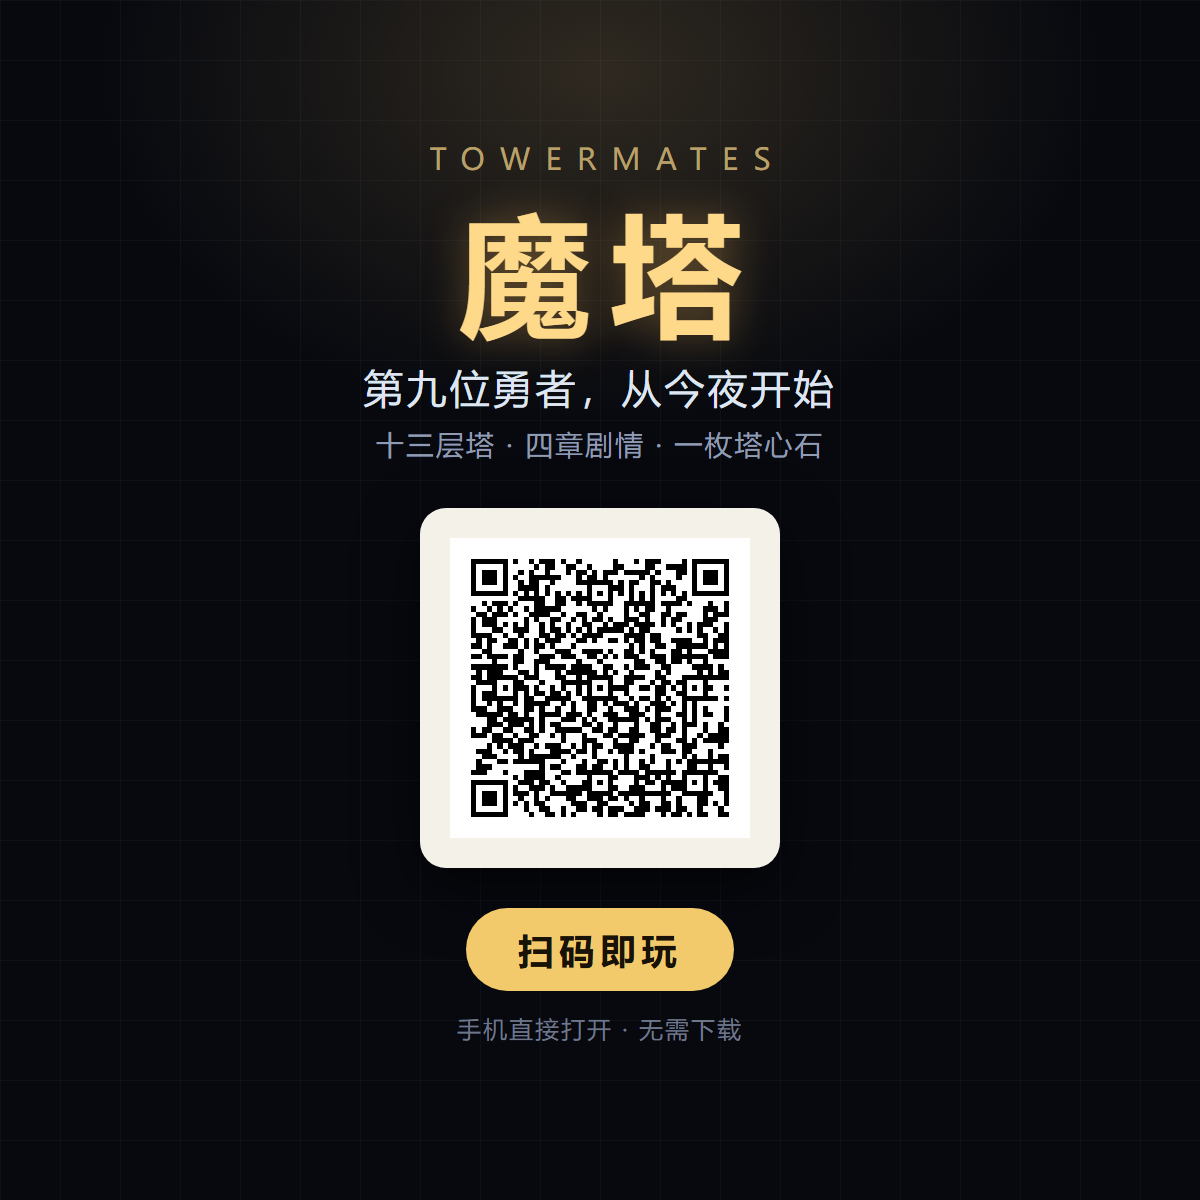
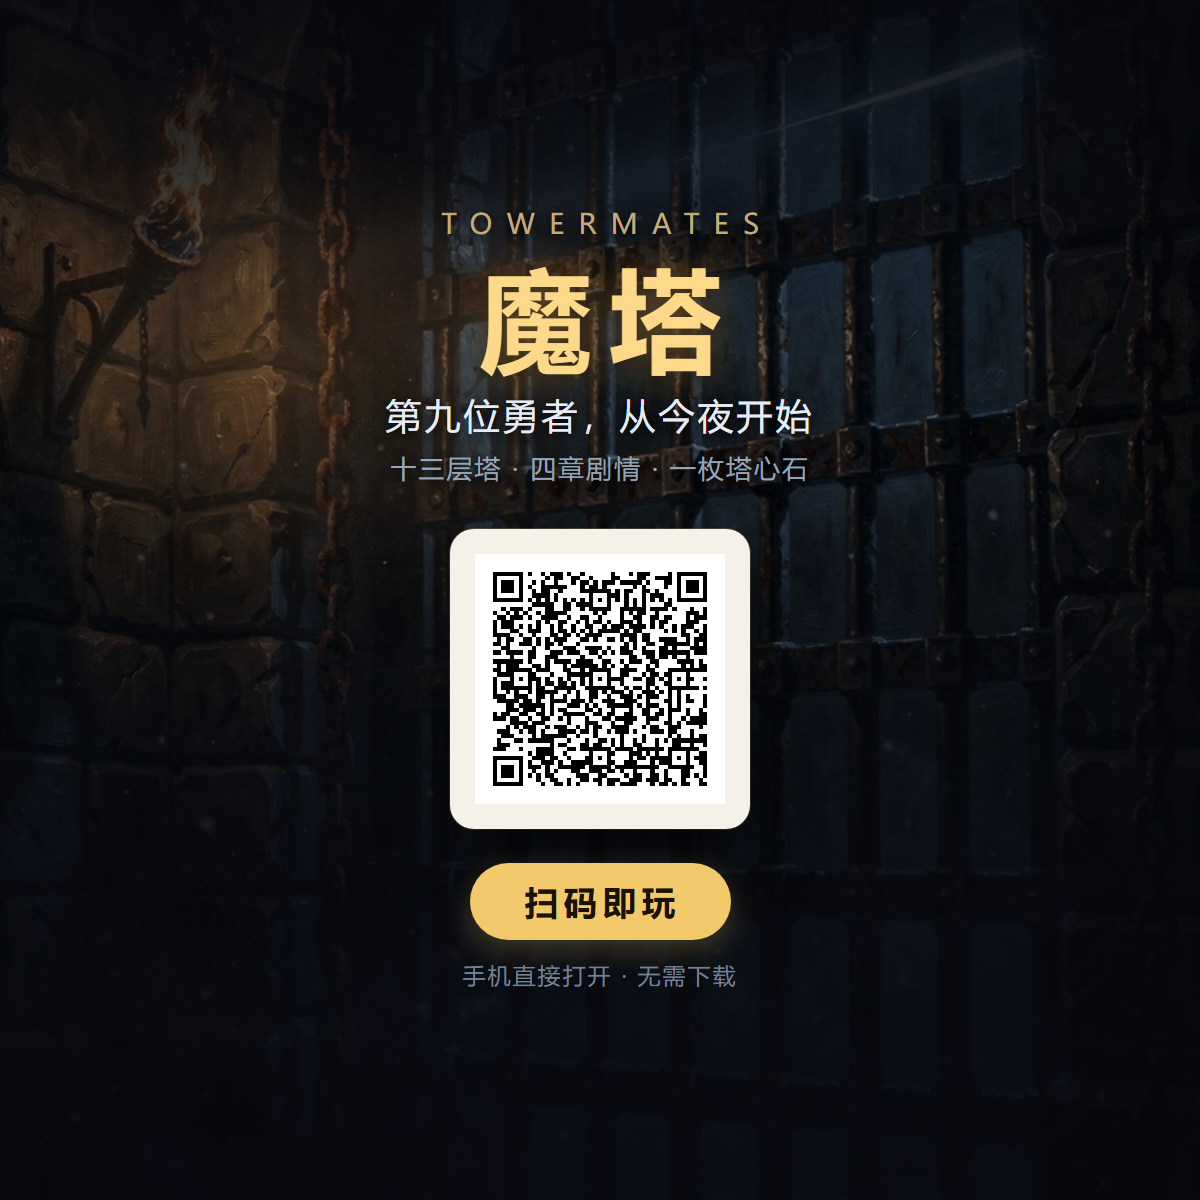
feat(social): 分享卡换成塔门 CG + og:image 版本串 + 5 条永久闸门；首局立誓页去掉五遍重复句
- assets/share-card.png 由 tools/sharecard.html 重出（底图 assets/cg/gate.webp，火把/铁栅/门缝光），
  原来那张是 11-17 的纯黑底纯文字卡——整批美术换 CG 后它仍是旧脸，而它是分享链上唯一首触点。
- og:image 补 &v=1126：换卡不换地址，微信/浏览器会继续用缓存里的旧卡。
- code-test 新增 5 条：og:image 存在/setCode/带版本串 + 卡文件在 + 1200x1200 + 非空图。
- 首局立誓页五张锁卡各写「走完一局后可解锁」（同一句×5，顶行已说过）→ 首局只留价目；第二局起不变。
- publish 重新 sync（build 90afb7b86d，assetV 339e0112 未变）。

diff --git a/tools/sharecard.html b/tools/sharecard.html
@@ -8,8 +8,12 @@
   用法：chrome --headless=new --screenshot=assets/share-card.png --window-size=1200,1200
         --force-device-scale-factor=1 tools/sharecard.html
   依赖：tools/sharecard-qr.png（由根目录「towermates-二维码.png」临时复制，生成后即可删）。
-  为什么自己做一张而不是直接拿「扫码即玩-分享图.png」：那张是 3:4 竖图，
-  按 1:1 居中裁会切掉标题上半（魔塔二字），且底部 CTA 全丢。
+
+  2026-11-26：改版——底图换成 assets/cg/gate.webp（第一期 CG 的塔门，火把 + 铁栅 + 一束光），
+  原版是纯黑底 + 纯文字，等于「分享出去的卡片和进去看到的不是同一个游戏」。
+  这条链上只有一个「首触点」，卡上必须有游戏画面，否则没人知道点开是什么。
+  版式只动两处：①底图 + 上下压暗（中段留一条看得见铁栅的亮带）；②二维码从 360 收到 300，
+  给标题留高度。字、价、CTA 一个字没改——改的是「这张卡长什么样」，不是「这张卡说什么」。
 -->
 <style>
   * { margin: 0; padding: 0; box-sizing: border-box; }
@@ -18,88 +22,108 @@
     background: #07090f;
     font-family: "Microsoft YaHei", "PingFang SC", "Noto Sans CJK SC", sans-serif;
     color: #e8ecf5;
-    display: flex;
-    flex-direction: column;
-    align-items: center;
     position: relative;
   }
-  /* 一层极淡的塔砖网格：跟游戏里地板同一语言，不做花 */
-  body::before {
-    content: "";
-    position: absolute;
-    inset: 0;
-    background-image:
-      linear-gradient(rgba(120, 140, 180, 0.055) 1px, transparent 1px),
-      linear-gradient(90deg, rgba(120, 140, 180, 0.055) 1px, transparent 1px);
-    background-size: 60px 60px;
+  /* 底图：竖图塞进正方，取 42% 高度那条（铁栅中段 + 火把余光），不许裁到只剩地板 */
+  .bg {
+    position: absolute; inset: 0;
+    width: 100%; height: 100%;
+    object-fit: cover; object-position: 50% 46%;
+    display: block;
   }
-  /* 单一暖光：从正上方压下来，塔门缝里那道光 */
-  body::after {
-    content: "";
-    position: absolute;
-    inset: 0;
-    background: radial-gradient(60% 42% at 50% 6%, rgba(255, 206, 120, 0.16), rgba(0, 0, 0, 0) 70%);
+  /* 压暗：上 26% 给标题（穹顶砖是暗的，但还压一层保险）、中段 34%–52% 留亮、
+     下 40% 一路压到接近纯黑给二维码。二维码框自己是浅色，压得再黑也扫得出来 */
+  .scrim {
+    position: absolute; inset: 0;
+    background:
+      linear-gradient(180deg,
+        rgba(7, 9, 15, 0.90) 0%,
+        rgba(7, 9, 15, 0.74) 15%,
+        rgba(7, 9, 15, 0.44) 30%,
+        rgba(7, 9, 15, 0.52) 45%,
+        rgba(7, 9, 15, 0.74) 60%,
+        rgba(7, 9, 15, 0.88) 74%,
+        rgba(7, 9, 15, 0.93) 100%),
+      radial-gradient(76% 54% at 50% 46%, rgba(0, 0, 0, 0) 0%, rgba(0, 0, 0, 0.34) 100%);
   }
-  .wrap { position: relative; z-index: 1; width: 100%; height: 100%; display: flex; flex-direction: column; align-items: center; justify-content: center; padding-bottom: 18px; }
+  /* 单一暖光：火把那点火在左上，卡面只留一点点空气感，不压过文字 */
+  .warm {
+    position: absolute; inset: 0;
+    background: radial-gradient(38% 26% at 22% 30%, rgba(255, 190, 110, 0.13), rgba(0, 0, 0, 0) 72%);
+  }
+  .wrap {
+    position: relative; z-index: 2;
+    width: 100%; height: 100%;
+    display: flex; flex-direction: column; align-items: center; justify-content: center;
+    padding-bottom: 6px;
+  }
   .brand {
-    font-size: 30px;
-    letter-spacing: 15px;
-    color: #b9a06a;
-    text-indent: 15px;
+    font-size: 28px;
+    letter-spacing: 14px;
+    color: #c2ab7c;
+    text-indent: 14px;
+    text-shadow: 0 2px 10px rgba(0, 0, 0, 0.9);
   }
   .title {
-    margin-top: 22px;
-    font-size: 132px;
+    margin-top: 16px;
+    font-size: 112px;
     font-weight: 700;
-    letter-spacing: 20px;
-    text-indent: 20px;
+    letter-spacing: 18px;
+    text-indent: 18px;
     color: #ffd98a;
-    text-shadow: 0 0 42px rgba(255, 190, 90, 0.34);
-    line-height: 1.08;
+    text-shadow: 0 0 40px rgba(255, 190, 90, 0.4), 0 4px 22px rgba(0, 0, 0, 0.92);
+    line-height: 1.06;
   }
   .sub {
-    margin-top: 18px;
-    font-size: 40px;
-    color: #dfe6f2;
+    margin-top: 16px;
+    font-size: 36px;
+    color: #e6ebf5;
     letter-spacing: 3px;
+    text-shadow: 0 2px 14px rgba(0, 0, 0, 0.95);
   }
   .sub2 {
     margin-top: 12px;
-    font-size: 28px;
-    color: #8f9bb0;
+    font-size: 26px;
+    color: #98a4b8;
     letter-spacing: 2px;
+    text-shadow: 0 2px 12px rgba(0, 0, 0, 0.95);
   }
   .qrbox {
-    margin-top: 46px;
-    width: 360px;
-    height: 360px;
+    margin-top: 44px;
+    width: 300px;
+    height: 300px;
     background: #f4f1e8;
-    border-radius: 26px;
+    border-radius: 24px;
     display: flex;
     align-items: center;
     justify-content: center;
-    box-shadow: 0 20px 60px rgba(0, 0, 0, 0.62);
+    box-shadow: 0 22px 64px rgba(0, 0, 0, 0.72), 0 0 0 1px rgba(255, 217, 138, 0.22);
   }
-  .qrbox img { width: 300px; height: 300px; display: block; image-rendering: pixelated; }
+  .qrbox img { width: 250px; height: 250px; display: block; image-rendering: pixelated; }
   .cta {
-    margin-top: 40px;
-    padding: 18px 52px;
+    margin-top: 34px;
+    padding: 16px 50px;
     border-radius: 999px;
     background: #f2c96b;
     color: #191307;
-    font-size: 36px;
+    font-size: 34px;
     font-weight: 700;
     letter-spacing: 5px;
+    text-indent: 5px;
+    box-shadow: 0 10px 30px rgba(242, 201, 107, 0.24);
   }
   .foot {
-    margin-top: 22px;
-    font-size: 24px;
-    color: #6d7789;
+    margin-top: 20px;
+    font-size: 23px;
+    color: #758094;
     letter-spacing: 2px;
   }
 </style>
 </head>
 <body>
+  <img class="bg" src="../assets/cg/gate.webp" alt="">
+  <div class="scrim"></div>
+  <div class="warm"></div>
   <div class="wrap">
     <div class="brand">TOWERMATES</div>
     <div class="title">魔塔</div>

diff --git a/index.html b/index.html
@@ -7,7 +7,7 @@
 <meta http-equiv="Cache-Control" content="no-cache, no-store, must-revalidate">
 <meta http-equiv="Pragma" content="no-cache">
 <meta http-equiv="Expires" content="0">
-<meta name="build" content="ecf7048b5a">
+<meta name="build" content="90afb7b86d">
 <title>TowerMates · 魔塔</title>
 <!-- 分享卡：挑战链接（?rival=）是全作唯一传播路径，没有这几条时粘进微信是一条裸链接 + 灰占位图，
      点开前看不出是什么。图是 tools/sharecard.html 用无头 Chrome 渲的 1200×1200 正方卡（1:1 裁切不丢字）。
@@ -17,12 +17,12 @@
 <meta property="og:site_name" content="TowerMates">
 <meta property="og:title" content="TowerMates · 魔塔 —— 第九位勇者，从今夜开始">
 <meta property="og:description" content="十三层塔 · 四章剧情 · 一枚塔心石。塔里的事，没有一件是看起来的样子。手机直接打开，无需下载。">
-<meta property="og:image" content="https://towermates.app.workbuddy.host/assets/share-card.png?sharecode=U7XMLC2NKJ">
+<meta property="og:image" content="https://towermates.app.workbuddy.host/assets/share-card.png?sharecode=U7XMLC2NKJ&v=1126">
 <meta property="og:image:width" content="1200">
 <meta property="og:image:height" content="1200">
 <meta property="og:url" content="https://towermates.app.workbuddy.host/?sharecode=U7XMLC2NKJ">
 <meta name="twitter:card" content="summary_large_image">
-<link rel="stylesheet" href="css/style.css?v=ecf7048b5a">
+<link rel="stylesheet" href="css/style.css?v=90afb7b86d">
 </head>
 <body>
 <div id="app">
@@ -576,24 +576,24 @@
   </div>
 </div>
 
-<script src="js/data.js?v=ecf7048b5a"></script>
-<script src="js/vow-icons.js?v=ecf7048b5a"></script>
-<script src="js/story.js?v=ecf7048b5a"></script>
-<script src="js/portraits.js?v=ecf7048b5a"></script>
-<script src="js/backdrops.js?v=ecf7048b5a"></script>
-<script src="js/scenes.js?v=ecf7048b5a"></script>
-<script src="js/achievements.js?v=ecf7048b5a"></script>
-<script src="js/daily.js?v=ecf7048b5a"></script>
-<script src="js/view.js?v=ecf7048b5a"></script>
-<script src="js/engine.js?v=ecf7048b5a"></script>
-<script src="js/render.js?v=ecf7048b5a"></script>
-<script src="js/devgate.js?v=ecf7048b5a"></script>
-<script src="js/ads.js?v=ecf7048b5a"></script>
-<script src="js/main.js?v=ecf7048b5a"></script>
-<script src="js/challenge.js?v=ecf7048b5a"></script>
-<script src="js/wxbridge.js?v=ecf7048b5a"></script>
-<script src="js/touch.js?v=ecf7048b5a"></script>
-<script src="js/gate-forth.js?v=ecf7048b5a"></script>
-<script src="js/wxwire.js?v=ecf7048b5a"></script>
+<script src="js/data.js?v=90afb7b86d"></script>
+<script src="js/vow-icons.js?v=90afb7b86d"></script>
+<script src="js/story.js?v=90afb7b86d"></script>
+<script src="js/portraits.js?v=90afb7b86d"></script>
+<script src="js/backdrops.js?v=90afb7b86d"></script>
+<script src="js/scenes.js?v=90afb7b86d"></script>
+<script src="js/achievements.js?v=90afb7b86d"></script>
+<script src="js/daily.js?v=90afb7b86d"></script>
+<script src="js/view.js?v=90afb7b86d"></script>
+<script src="js/engine.js?v=90afb7b86d"></script>
+<script src="js/render.js?v=90afb7b86d"></script>
+<script src="js/devgate.js?v=90afb7b86d"></script>
+<script src="js/ads.js?v=90afb7b86d"></script>
+<script src="js/main.js?v=90afb7b86d"></script>
+<script src="js/challenge.js?v=90afb7b86d"></script>
+<script src="js/wxbridge.js?v=90afb7b86d"></script>
+<script src="js/touch.js?v=90afb7b86d"></script>
+<script src="js/gate-forth.js?v=90afb7b86d"></script>
+<script src="js/wxwire.js?v=90afb7b86d"></script>
 </body>
 </html>

diff --git a/publish/index.html b/publish/index.html
@@ -7,7 +7,7 @@
 <meta http-equiv="Cache-Control" content="no-cache, no-store, must-revalidate">
 <meta http-equiv="Pragma" content="no-cache">
 <meta http-equiv="Expires" content="0">
-<meta name="build" content="ecf7048b5a">
+<meta name="build" content="90afb7b86d">
 <title>TowerMates · 魔塔</title>
 <!-- 分享卡：挑战链接（?rival=）是全作唯一传播路径，没有这几条时粘进微信是一条裸链接 + 灰占位图，
      点开前看不出是什么。图是 tools/sharecard.html 用无头 Chrome 渲的 1200×1200 正方卡（1:1 裁切不丢字）。
@@ -17,12 +17,12 @@
 <meta property="og:site_name" content="TowerMates">
 <meta property="og:title" content="TowerMates · 魔塔 —— 第九位勇者，从今夜开始">
 <meta property="og:description" content="十三层塔 · 四章剧情 · 一枚塔心石。塔里的事，没有一件是看起来的样子。手机直接打开，无需下载。">
-<meta property="og:image" content="https://towermates.app.workbuddy.host/assets/share-card.png?sharecode=U7XMLC2NKJ">
+<meta property="og:image" content="https://towermates.app.workbuddy.host/assets/share-card.png?sharecode=U7XMLC2NKJ&v=1126">
 <meta property="og:image:width" content="1200">
 <meta property="og:image:height" content="1200">
 <meta property="og:url" content="https://towermates.app.workbuddy.host/?sharecode=U7XMLC2NKJ">
 <meta name="twitter:card" content="summary_large_image">
-<link rel="stylesheet" href="css/style.css?v=ecf7048b5a">
+<link rel="stylesheet" href="css/style.css?v=90afb7b86d">
 </head>
 <body>
 <div id="app">
@@ -576,24 +576,24 @@
   </div>
 </div>
 
-<script src="js/data.js?v=ecf7048b5a"></script>
-<script src="js/vow-icons.js?v=ecf7048b5a"></script>
-<script src="js/story.js?v=ecf7048b5a"></script>
-<script src="js/portraits.js?v=ecf7048b5a"></script>
-<script src="js/backdrops.js?v=ecf7048b5a"></script>
-<script src="js/scenes.js?v=ecf7048b5a"></script>
-<script src="js/achievements.js?v=ecf7048b5a"></script>
-<script src="js/daily.js?v=ecf7048b5a"></script>
-<script src="js/view.js?v=ecf7048b5a"></script>
-<script src="js/engine.js?v=ecf7048b5a"></script>
-<script src="js/render.js?v=ecf7048b5a"></script>
-<script src="js/devgate.js?v=ecf7048b5a"></script>
-<script src="js/ads.js?v=ecf7048b5a"></script>
-<script src="js/main.js?v=ecf7048b5a"></script>
-<script src="js/challenge.js?v=ecf7048b5a"></script>
-<script src="js/wxbridge.js?v=ecf7048b5a"></script>
-<script src="js/touch.js?v=ecf7048b5a"></script>
-<script src="js/gate-forth.js?v=ecf7048b5a"></script>
-<script src="js/wxwire.js?v=ecf7048b5a"></script>
+<script src="js/data.js?v=90afb7b86d"></script>
+<script src="js/vow-icons.js?v=90afb7b86d"></script>
+<script src="js/story.js?v=90afb7b86d"></script>
+<script src="js/portraits.js?v=90afb7b86d"></script>
+<script src="js/backdrops.js?v=90afb7b86d"></script>
+<script src="js/scenes.js?v=90afb7b86d"></script>
+<script src="js/achievements.js?v=90afb7b86d"></script>
+<script src="js/daily.js?v=90afb7b86d"></script>
+<script src="js/view.js?v=90afb7b86d"></script>
+<script src="js/engine.js?v=90afb7b86d"></script>
+<script src="js/render.js?v=90afb7b86d"></script>
+<script src="js/devgate.js?v=90afb7b86d"></script>
+<script src="js/ads.js?v=90afb7b86d"></script>
+<script src="js/main.js?v=90afb7b86d"></script>
+<script src="js/challenge.js?v=90afb7b86d"></script>
+<script src="js/wxbridge.js?v=90afb7b86d"></script>
+<script src="js/touch.js?v=90afb7b86d"></script>
+<script src="js/gate-forth.js?v=90afb7b86d"></script>
+<script src="js/wxwire.js?v=90afb7b86d"></script>
 </body>
 </html>

diff --git a/js/main.js b/js/main.js
@@ -4678,8 +4678,11 @@
       let foot = '';
       if (locked) {
         const short = Math.max(0, (v.ember || 0) - Meta.ember);
+        // 首局五张锁卡的价格是五个不同的数，但「走完一局后可解锁」是同一句话——
+        // 顶行已经说过一次（「走完一局，塔会记住你」），再在五张卡上各写一遍，
+        // 首屏读到的是五扇关着的门 + 六遍同一句。首局只留价目，解锁时机留在顶行说一次。
         foot = firstRun
-          ? `<span class="vc-unlock">🔒 ${v.ember} ✦ · 走完一局后可解锁</span>`
+          ? `<span class="vc-unlock">🔒 ${v.ember} ✦</span>`
           : affordable
             ? `<span class="vc-unlock ok">🔒 ${v.ember} ✦ · 点一下买下</span>`
             : `<span class="vc-unlock">🔒 ${v.ember} ✦ · 还差 ${short} ✦</span>`;

diff --git a/publish/js/main.js b/publish/js/main.js
@@ -4678,8 +4678,11 @@
       let foot = '';
       if (locked) {
         const short = Math.max(0, (v.ember || 0) - Meta.ember);
+        // 首局五张锁卡的价格是五个不同的数，但「走完一局后可解锁」是同一句话——
+        // 顶行已经说过一次（「走完一局，塔会记住你」），再在五张卡上各写一遍，
+        // 首屏读到的是五扇关着的门 + 六遍同一句。首局只留价目，解锁时机留在顶行说一次。
         foot = firstRun
-          ? `<span class="vc-unlock">🔒 ${v.ember} ✦ · 走完一局后可解锁</span>`
+          ? `<span class="vc-unlock">🔒 ${v.ember} ✦</span>`
           : affordable
             ? `<span class="vc-unlock ok">🔒 ${v.ember} ✦ · 点一下买下</span>`
             : `<span class="vc-unlock">🔒 ${v.ember} ✦ · 还差 ${short} ✦</span>`;

diff --git a/publish/css/style.css b/publish/css/style.css
@@ -182,6 +182,12 @@ html, body {
 .hero-portrait .pt { width: 100%; }
 .hero-portrait .pt-aura { inset: -10% -20% -4%; opacity: 0.4; filter: none; animation: none; }
 .hero-portrait .pt-svg { filter: drop-shadow(0 2px 6px rgba(0, 0, 0, 0.7)); animation: none; }
+/* 2026-11-26：HUD 换成 CG 立绘后，58×72 的槽里暗部糊成一块——提亮 15% + 加一点对比，
+   只提这一处（对白槽 84px 更大，不需要）。呼吸动画在 HUD 里停掉，和 .pt-svg 一致。 */
+.hero-portrait .pt-img {
+  filter: brightness(1.15) contrast(1.06) saturate(1.04) drop-shadow(0 2px 6px rgba(0, 0, 0, 0.7));
+  animation: none;
+}
 .hero-main { flex: 1; min-width: 0; display: flex; flex-direction: column; gap: 5px; }
 .hero-id { display: flex; align-items: baseline; gap: 6px; min-width: 0; }
 .hero-id b {

diff --git a/PROGRESS.md b/PROGRESS.md
@@ -1863,3 +1863,30 @@
   ｜加练：游戏性 焦点D（发现 2 处 / 已修 1 处 / 记待办 1 处）｜变体：自检（六面，11 轮后升级）｜薄弱层：结构（真人数据与「第二局要想什么」仍是唯一缺口；本轮补的是损坏路径的退路，不改变难度曲线）｜阻塞：无
 
 - **待办新增**：`- [ ] 余烬首次出现没有一句解释（结算页只有「✦ +8 余烬」）| 复现：任意一局走到结算 | 影响：体验（新玩家不知这数用来干嘛）| 优先级：低 | 缺引导`
+
+- 2026-11-26 11:4x（自动轮 · 全力，单段）：**加练 社交（分享卡换成塔门 CG）+ 变体 6 节奏审计（首局立誓页五遍同一句 → 只留价目）**
+  判定：代码 mtime 35 分钟（index.html 11:10）｜脏项两处都是他会话**已收尾的残留**——`publish/css/style.css` 与源码 `css/style.css` 逐字节相同（空同步产物）、
+  `tools/shot.html` 是 10:40 之后就停手的调试探针，而那一路会话 11:08/11:10/11:13 连提三次 ⇒ 全力，但只 add 自己改的，`shot.html` 不碰。
+  ① **加练 社交**：`assets/share-card.png` 还是 11-17 18:45 那张**纯黑底 + 纯文字**的卡；11-25/11-26 整批美术换 FLUX CG 之后，
+  分享出去的"第一眼"仍是旧脸——而它是整条分享链上**唯一**的首触点，`og:image` 指的就是它。改法是底图换 `assets/cg/gate.webp`
+  （火把 + 铁栅 + 门缝一束光，正好是"扫码进门"这个动作），上下压暗、中段留一条看得见铁栅的亮带；二维码 360→300 把高度让给标题；
+  **字、价、CTA 一个字没改**——改的是"这张卡长什么样"，不是"这张卡说什么"。旧版纯黑底的问题不是不好看，是"点开之前没人知道这是什么游戏"。
+  ② **顺手补的三件（都在这条链上）**：`og:image` 补 `&v=1126`——换卡不换地址，微信与浏览器会一直用缓存里那张旧卡（11-25 换 CG 时踩过同一个坑）；
+  `tools/code-test.js` 补 **5 条永久闸门**（og:image 在 / 带 sharecode / 带版本串 + 卡文件在 + 1200×1200 + 非空图），此前这张卡**不在任何探针里**，
+  所以"美术全换、卡片不动"没有任何东西会红；`node tools/sync-publish.js` 重跑（build `90afb7b86d`，assetV `339e0112` 未变）。
+  ③ **变体 6 节奏审计（A 审计模式，零新增元素）**：三个窗口的读数直接取闸门实测，不重数一遍——
+  0–60 秒：首屏 1 / 立誓 6 / 序章 1 / 首层 4 / 可操作 3 / 教学弹窗 2 / 首战 **63.1s**；1–3 分钟：教学弹窗 2；全屏元素预算 **14/14**。
+  **本轮唯一超载不在数量、在文字**：首局五张锁卡的卡底各写一句「走完一局后可解锁」，同一句话连写五遍，
+  而顶行「走完一局，塔会记住你」与余烬说明已经把解锁时机说过两遍 ⇒ 首局卡底只留 `🔒 N ✦`（价目是五个不同的数，是信息；同一句重复是噪音）。
+  第二局起一个字不动（「点一下买下」/「还差 N ✦」都要留，那是当下能不能买的即时判断）。
+  ④ **留档口径（免得下轮照字面砍卡）**：立誓 6 张卡**不进降载**——已经顶在预算 ≤6 的上界，首局点锁卡只弹一句说明、不是花钱动词；
+  "六扇门里现在只开一扇"是这个系统的身份，删卡等于删掉"塔记得你"的唯一证明。
+  ⑤ 闸门：check ✓ / code **608→618**（+5 分享卡 + 他批的增量）/ engine 638 未动 / sim 未跑（纯表现层与文案，不碰数值）/ regress 全套绿
+  （59 图 / 可读性 1549·0 违规 / 元素预算 14/14 / 首局 1·1·1·4·3·2·63.1s 未变 / 立誓页 6 卡 6 主色 / 弹层 116 / 触控 80 / 并发 28 / ui-test ✓）。
+  ⑥ 收尾自审八项：①回归——改的是 `renderVowPanel` 的首局分支与三条 meta/工具，`vowfirst.png` 目检五张卡都只余价目、解锁时机仍在顶行；
+  ②边界——`ember` 为 0/缺失（`v.ember || 0`）、首局 vs 第二局两态、`Meta.ember` 够与不够两态都过；③逻辑六问——纯模板串改造，无定时器/监听/结算路径，
+  `firstRun` 是纯派生量；④残留——`assets/share-card.png` 1.1MB（旧卡 246KB，底图质量换来的，可接受），无临时脚本、无临时进程；
+  ⑤质量——解锁时机现在只在 `openVow` 一处文案里说，没有第二份实现；⑥上轮复核——09:0x 的回响空卡兜底未受影响（engine 638 未变）；
+  ⑦文案与代码一致——卡底只剩价目，与"顶行说时机"的分工一致，没有句子再说第二遍；⑧引导四问——不新增元素、不新增知识点。
+  ｜加练：社交（发现 1 处 / 已修 1 处 + 补 5 条闸门）｜变体：节奏审计（A 模式，1 处降载：首局锁卡重复句）｜薄弱层：表层（分享首触点此后与游戏同脸；结构缺口仍是真人数据与「第二局要想什么」）｜阻塞：无
+

diff --git a/.workbuddy/memory/2026-11-26.md b/.workbuddy/memory/2026-11-26.md
@@ -118,3 +118,11 @@
 - 资产 8.3MB（24 场景 + 9 立绘），按需加载 + 前后两句预取。
 - **进程**：serve.js 8899 已杀净；ComfyUI 被用户的 watchdog（PID 类 gpu_idle_watcher）常驻拉起，非本轮实例，按「不碰别人的」保留。
 - **build 号坑**：并行会话的 sync-publish 会覆盖根目录 index.html 的 build 号。本轮 commit 后线上 build 仍是旧值（js 新、指纹旧 ⇒ 老玩家吃缓存），重跑 sync 得到 ecf7048b5a 后二次部署才对齐。**改完 js 要确认 build 号真的变了，别只看部署成功**。
+
+## 11:45–12:0x 自动轮（全力）：加练 社交（分享卡换塔门 CG + 5 条闸门）+ 变体 6 节奏审计
+- **发现**：`assets/share-card.png` 还是 11-17 那张**纯黑底纯文字**卡。整批美术 11-25/11-26 换成 FLUX CG 后，`og:image` 指着的那张卡没人管——它是分享链上唯一的首触点，且**不在任何探针/build 指纹里**，所以美术全换也不会红。属「既有零件落后」类。
+- **改法**：`tools/sharecard.html` 底图换 `assets/cg/gate.webp`（火把 + 铁栅 + 门缝光，对应「扫码进门」），上下压暗留中段亮带；二维码 360→300 给标题让位；字/价/CTA 未改。`og:image` 补 `&v=1126`（同 11-25 换 CG 的缓存坑）。`code-test` 新增 5 条：og:image 在/带 sharecode/带版本串 + 卡文件在 + 1200×1200（读 PNG IHDR 16–23 字节）+ 非空图。build `90afb7b86d`。
+- **变体 6（A 审计）**：读数直接取闸门实测（首屏 1 / 立誓 6 / 首层 4 / 可操作 3 / 弹窗 2 / 首战 63.1s / 全屏 14/14）。唯一超载是文字不是数量：首局 5 张锁卡各写「走完一局后可解锁」，同一句×5，而顶行 + 余烬说明已说过两遍 ⇒ 首局卡底只留 `🔒 N ✦`；第二局起不动。
+- **留档**：立誓 6 卡**不进降载**（已顶预算 ≤6；首局点锁卡只弹说明不是花钱动词；六扇门是这个系统的身份）。
+- **脏树判定**：两个脏项都是他会话已收尾残留（publish/css 与源码逐字节相同＝空同步产物、shot.html 调试探针 10:40 后停手）⇒ 全力，只 add 自己的；`shot.html` 未碰。
+- 闸门：code 608→618 / engine 638 未动 / regress 全绿（59 图、可读性 1549·0、立誓页 6 卡 6 主色、ui-test ✓）/ sim 未跑（纯表现层）。
